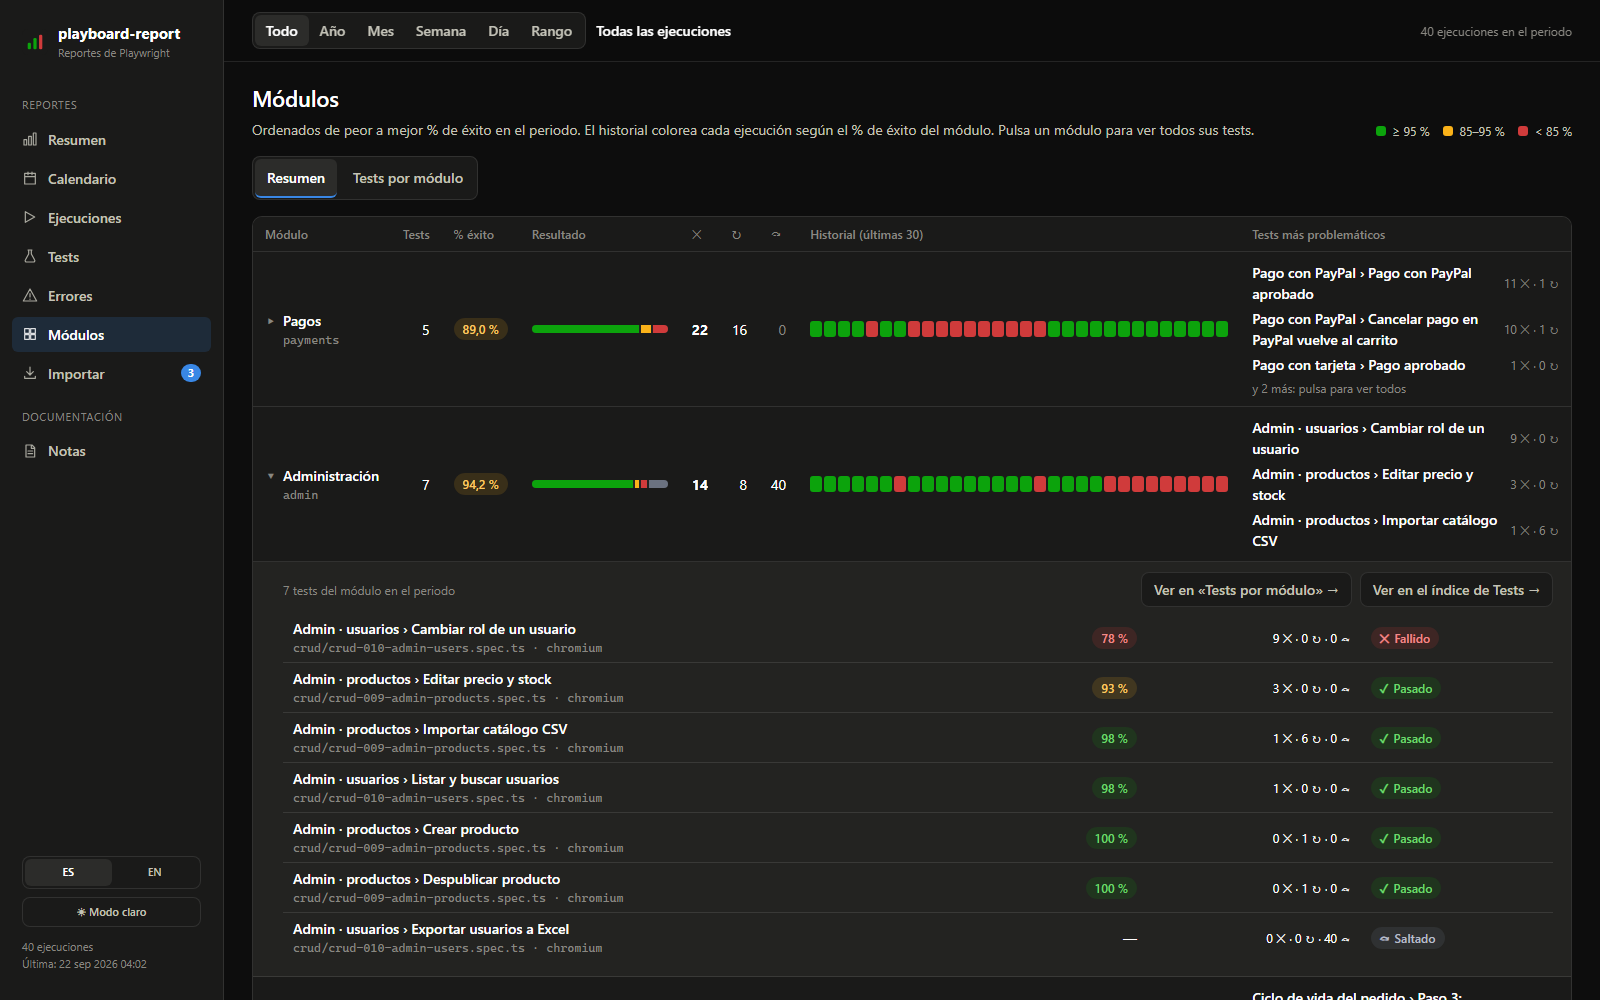
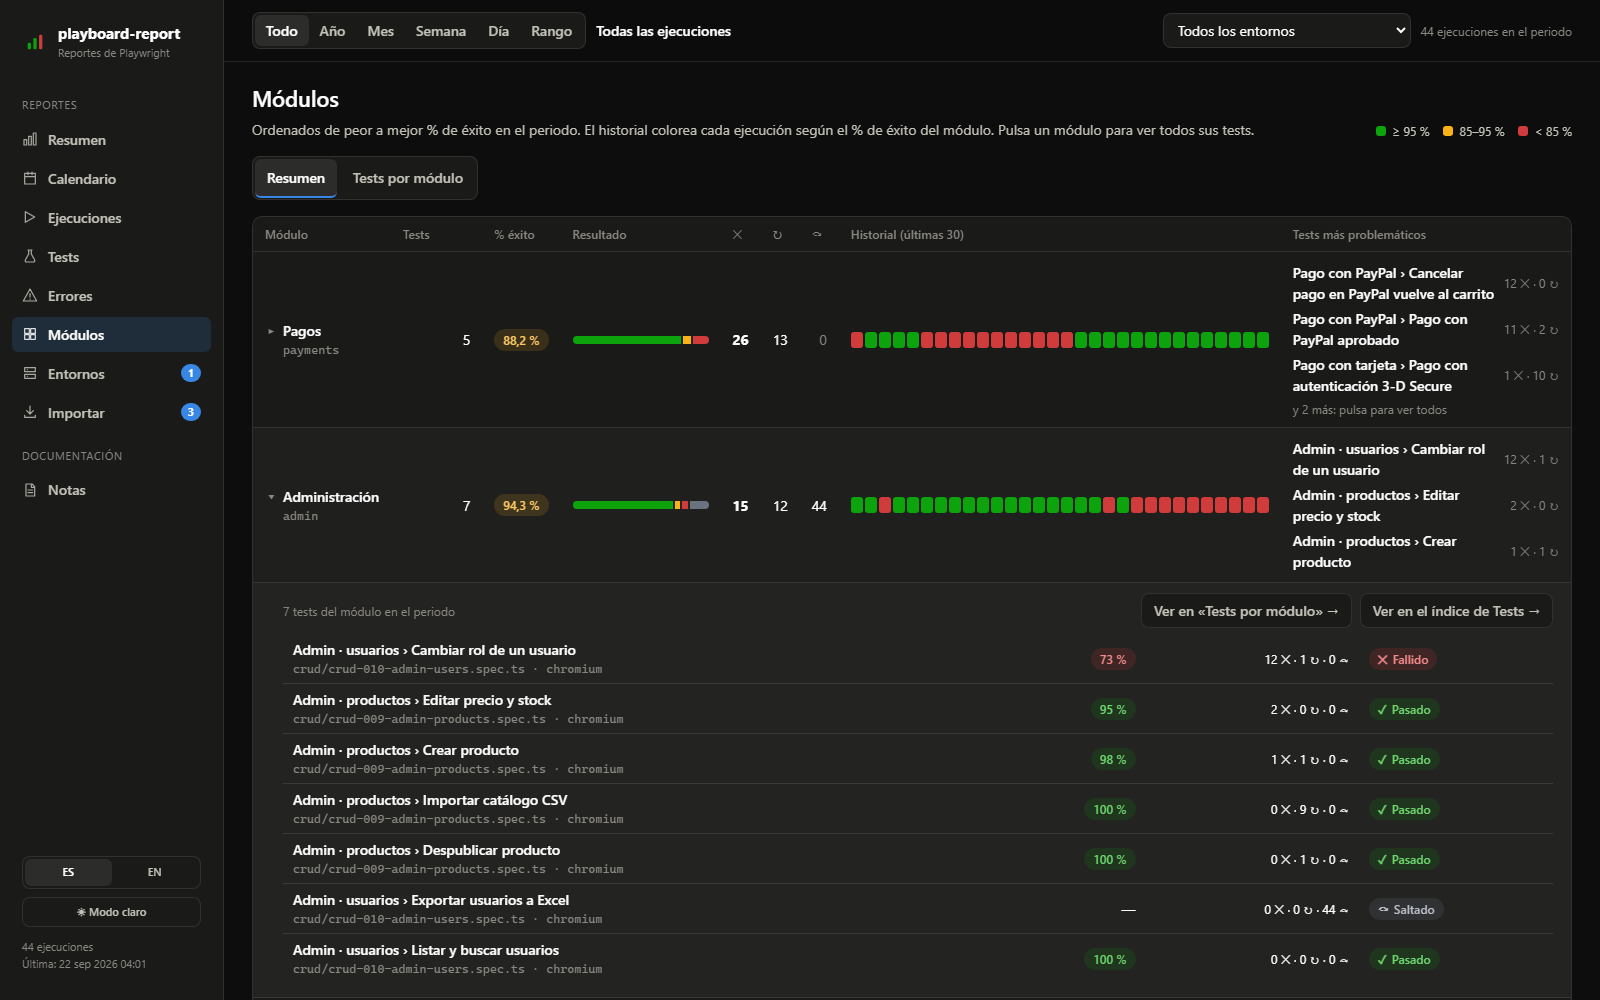
docs: capturas actualizadas con la demo (comprobados, informe y entornos)
- Rehechas todas las capturas de docs/screenshots con npm run demo a 1600×1000:
  selector de entornos, errores nuevos y resueltos, tests eliminados y paginación.
- run-dark.png muestra la columna «Comprobado» del detalle de una ejecución.
- Nuevas: run-test-dark.png (panel de un test con su marca de comprobado)
  y run-report-light.png (informe imprimible).
- README: tabla de capturas con las nuevas.

diff --git a/README.md b/README.md
@@ -13,8 +13,10 @@ El reporte HTML de Playwright es muy completo, pero solo muestra una ejecución.
 
 | | |
 |---|---|
-| ![Detalle de una ejecución con el panel de un test fallido](docs/screenshots/run-dark.png) | ![Tests con su historial por ejecución](docs/screenshots/tests-dark.png) |
-| **Ejecución**: panel del test con error, capturas y reintentos | **Tests**: índice como el reporte de Playwright, con su historial |
+| ![Detalle de una ejecución con la columna de fallos comprobados](docs/screenshots/run-dark.png) | ![Panel de un test fallido marcado como comprobado](docs/screenshots/run-test-dark.png) |
+| **Ejecución**: tests con su estado, error y marca «Comprobado» | **Test de una ejecución**: marca de comprobado, error, capturas y reintentos |
+| ![Tests con su historial por ejecución](docs/screenshots/tests-dark.png) | ![Informe imprimible de una ejecución](docs/screenshots/run-report-light.png) |
+| **Tests**: índice como el reporte de Playwright, con su historial | **Informe / PDF** de una ejecución |
 | ![Calendario coloreado por % de éxito](docs/screenshots/calendar-dark.png) | ![Errores agrupados por tipo](docs/screenshots/errors-dark.png) |
 | **Calendario** | **Errores** agrupados |
 | ![Importar zips de artefactos](docs/screenshots/import-dark.png) | ![Visor de notas](docs/screenshots/notes-dark.png) |
